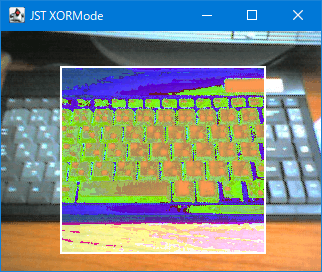
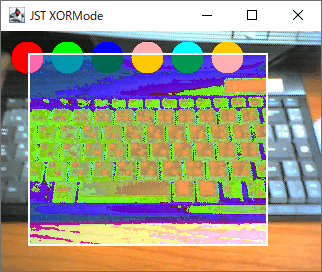
add: XORMode update screenshot.png

diff --git a/XORMode/src/java/example/MainPanel.java b/XORMode/src/java/example/MainPanel.java
@@ -69,7 +69,24 @@ class ImageIconPanel extends JPanel {
     int y = (dim.height - ih) / 2;
     g.drawImage(icon.getImage(), x, y, iw, ih, this);
 
+    g2.setPaint(Color.RED);
+    g2.fillOval(10, 10, 32, 32);
+
+    g2.setPaint(Color.GREEN);
+    g2.fillOval(50, 10, 32, 32);
+
+    g2.setPaint(Color.BLUE);
+    g2.fillOval(90, 10, 32, 32);
+
+    g2.setPaint(Color.PINK);
+    g2.fillOval(130, 10, 32, 32);
+
+    g2.setPaint(Color.CYAN);
+    g2.fillOval(170, 10, 32, 32);
+
     g2.setPaint(Color.ORANGE);
+    g2.fillOval(210, 10, 32, 32);
+
     g2.setXORMode(Color.PINK);
     g2.fill(rubberBand);
 
